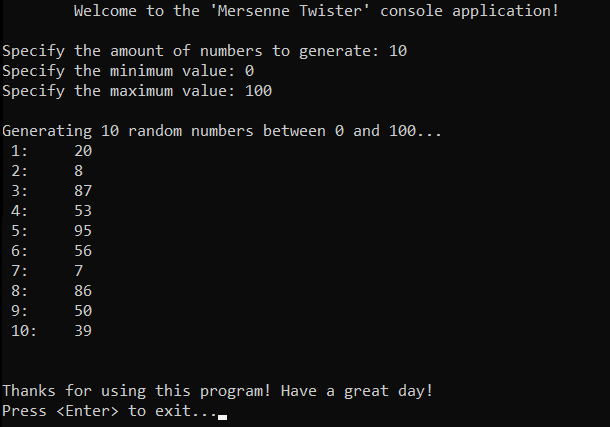
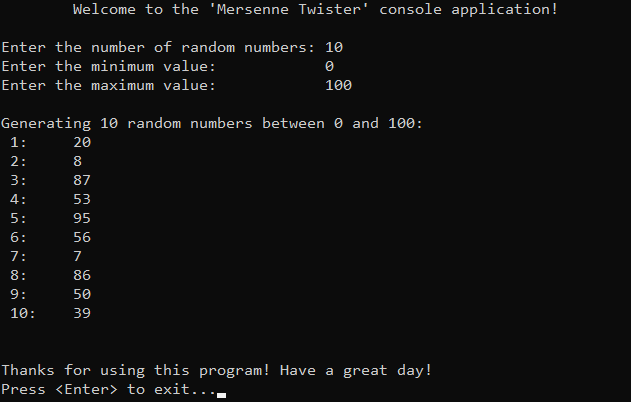
Maint 'MersenneTwister' + 'Xorshift32': typos, links, img (proper bits, LSB, MSB, ordering, evaluation, etc).

diff --git a/Algorithms/RNG/MersenneTwister/Source/Main.cpp b/Algorithms/RNG/MersenneTwister/Source/Main.cpp
@@ -12,23 +12,22 @@ int main() {
 	// Greet
 	std::cout << "\tWelcome to the 'Mersenne Twister' console application!\n\n";
 
-	// Prompt user for input
-	std::cout << "Specify the amount of numbers to generate: ";
-	int numbers = 0;
-	std::cin >> numbers;
-	std::cout << "Specify the minimum value: ";
+	// Prompt the user for input
+	std::cout << "Enter the number of random numbers: ";
+	int n = 0;
+	std::cin >> n;
+	std::cout << "Enter the minimum value:\t    ";
 	int minVal = 0;
 	std::cin >> minVal;
-	std::cout << "Specify the maximum value: ";
+	std::cout << "Enter the maximum value:\t    ";
 	int maxVal = 0;
 	std::cin >> maxVal;
 
 	// Generate random numbers within the user-defined range
-	MersenneTwister mt(1234);
-	std::cout << "\nGenerating " << numbers 
-		<< " random numbers between " << minVal << " and " << maxVal << "...\n";
-	for (int i = 0; i < numbers; i++) {
-		uint32_t randomNumber = minVal + (mt.generate() % (maxVal - minVal + 1));
+	MersenneTwister prng(1234);
+	std::cout << "\nGenerating " << n << " random numbers between " << minVal << " and " << maxVal << ":\n";
+	for (int i = 0; i < n; i++) {
+		uint32_t randomNumber = minVal + (prng.generate() % (maxVal - minVal + 1));
 		std::cout << " " << i + 1 << ":\t" << randomNumber << std::endl;
 	}
 	std::cout << std::endl;
@@ -36,6 +35,7 @@ int main() {
 	// Exit
 	std::cout << "\nThanks for using this program! Have a great day!\n";
 	std::cout << "Press <Enter> to exit...";
+	std::cin.ignore();
 	std::cin.get();
 	return 0;
 }

diff --git a/Algorithms/RNG/MersenneTwister/Source/MersenneTwister.cpp b/Algorithms/RNG/MersenneTwister/Source/MersenneTwister.cpp
@@ -9,11 +9,12 @@
 
 MersenneTwister::MersenneTwister(uint32_t seed) { initialize(seed); }
 
+// Initializes the state using linear recurrence method from the MT19937 algorithm
 void MersenneTwister::initialize(uint32_t seed) {
-    stateArr.resize(n);
-    stateArr[0] = seed;
+    state.resize(n);
+    state[0] = seed;
     for (int i = 1; i < n; i++) {
-        stateArr[i] = f * (stateArr[i - 1] ^ (stateArr[i - 1] >> 30)) + i;
+        state[i] = f * (state[i - 1] ^ (state[i - 1] >> 30)) + i;
     }   
 }
 
@@ -23,10 +24,10 @@ void MersenneTwister::twist() {
     const uint32_t upMask = ~lowMask;
 
     for (int i = 0; i < n; i++) {
-        uint32_t x = (stateArr[i] & upMask) + (stateArr[(i + 1) % n] & lowMask);
+        uint32_t x = (state[i] & upMask) + (state[(i + 1) % n] & lowMask);
         uint32_t xA = x >> 1;
         if (x % 2 != 0) { xA ^= a; } // If the lowest bit is 1
-        stateArr[i] = stateArr[(i + m) % n] ^ xA;
+        state[i] = state[(i + m) % n] ^ xA;
     }
     index = 0;
 }
@@ -35,7 +36,7 @@ void MersenneTwister::twist() {
 uint32_t MersenneTwister::generate() {
     if (index >= n) { twist(); }
 
-    uint32_t y = stateArr[index++];
+    uint32_t y = state[index++];
     y ^= (y >> u);
     y ^= (y << s) & b;
     y ^= (y << t) & c;

diff --git a/Algorithms/RNG/MersenneTwister/Include/MersenneTwister.h b/Algorithms/RNG/MersenneTwister/Include/MersenneTwister.h
@@ -26,7 +26,7 @@ private:
     static const uint32_t c = 0xEFC60000;     // Another mask used in the tempering process
     static const uint32_t f = 1812433253u;    // Multiplier used during the initialization of the state array
 
-    std::vector<uint32_t> stateArr;
+    std::vector<uint32_t> state;
     int index = n + 1;
 
     void initialize(uint32_t seed);

diff --git a/Algorithms/RNG/MersenneTwister/MersenneTwister.md b/Algorithms/RNG/MersenneTwister/MersenneTwister.md
@@ -25,7 +25,7 @@ The **Mersenne Twister** is a complex and highly efficient pseudorandom number g
 
 
 ## Introduction
-The Mersenne Twister generates a sequence of pseudorandom numbers by maintaining an internal state array. This array holds intermediate values used to produce random numbers. The algorithm periodically updates the state array through a process called "twisting," which mixes bits from consecutive elements. The final numbers are produced through "tempering," which applies bit shifts and masks to ensure the numbers are well-distributed. Both twisting and tempering involve specific constants, carefully chosen from mathematical research, to control how the bits are manipulated and ensure the algorithm's long period and high-quality randomness.
+The Mersenne Twister generates a sequence of pseudorandom numbers by maintaining an internal state array. This array holds intermediate values used to produce random numbers. The algorithm periodically updates the state array through a process called «twisting», which mixes bits from consecutive elements. The final numbers are produced through «tempering», which applies bit shifts and masks to ensure the numbers are well-distributed. Both twisting and tempering involve specific constants, carefully chosen from mathematical research, to control how the bits are manipulated and ensure the algorithm's long period and high-quality randomness.
 
 
 ## Important Details
@@ -76,7 +76,7 @@ To prioritize simplicity and emphasize algorithm itself, several design decision
 
 
 ## Complete Implementation
-PRNG is implemented within the class `MersenneTwister`, which is declared in `MersenneTwister.h` header file and defined in `MersenneTwister.cpp` source file. This approach is adopted to ensure encapsulation, modularity and compilation efficiency. Examination of generated values is conducted within the `main()` function located in the `Main.cpp` file. Below you can find declaration of the class.
+PRNG is implemented within the class `MersenneTwister`, which is declared in [MersenneTwister.h](https://github.com/vezzolter/DSA/tree/main/Algorithms/RNG/MersenneTwister/Include/MersenneTwister.h) header file and defined in [MersenneTwister.cpp](https://github.com/vezzolter/DSA/tree/main/Algorithms/RNG/MersenneTwister/Source/MersenneTwister.cpp) source file. This approach is adopted to ensure encapsulation, modularity and compilation efficiency. Examination of generated values is conducted within the `main()` function located in the [Main.cpp](https://github.com/vezzolter/DSA/tree/main/Algorithms/RNG/MersenneTwister/Source/Main.cpp) file. Below you can find declaration of the class.
 
 ```cpp
 class MersenneTwister {
@@ -93,7 +93,7 @@ private:
     static const uint32_t c = 0xEFC60000;     // Another mask used in the tempering process
     static const uint32_t f = 1812433253u;    // Multiplier used during the initialization of the state array
 
-    std::vector<uint32_t> stateArr;
+    std::vector<uint32_t> state;
     int index = n + 1;
 
     void initialize(uint32_t seed);
@@ -111,15 +111,14 @@ public:
 ```cpp
   MersenneTwister::MersenneTwister(uint32_t seed) { initialize(seed); }
 ```
-2. Within this `initialize()` function do following actions: resize the state array to number of elements, initialize it by setting the first element to the provided seed, and fill the rest using a recurrence relation.
+2. Within this `initialize()` function do following actions: resize the state array to number of elements, initialize it by setting the first element to the provided seed, and fill the rest using linear recurrence method from the MT19937 algorithm.
 ```cpp
   void MersenneTwister::initialize(uint32_t seed) {
-      stateArr.resize(n);
-      stateArr[0] = seed;
+      state.resize(n);
+      state[0] = seed;
       for (int i = 1; i < n; i++) {
-        stateArr[i] = f * (stateArr[i - 1] ^ (stateArr[i - 1] >> 30)) + i;
-      }
-          
+        state[i] = f * (state[i - 1] ^ (state[i - 1] >> 30)) + i;
+      }    
   }
 ```
 3. When PRNG is set up, the user can call function `generate()` to X. In this function, the first thing to check is whether the index has exceeded the size of the state array (n = 624). If this condition is met, the state array has been fully used, and we need to call the `twist()` function to generate new values. Twisting allows us to refill the state array with fresh random numbers. For now, let’s assume everything is fine, and we don't need to twist. Later, I’ll explain exactly how twisting works. After checking this condition, the function proceeds to extract the next random number from the state array.
@@ -129,7 +128,7 @@ public:
 ```
 4. Now that we know that state array contains fresh random numbers, the next step is to retrieve the current value from the state array at the position index. The index++ ensures that the next time `generate()` is called, we will move to the next element in the array. This gives us the raw number y to work with.
 ```cpp
-  uint32_t y = stateArr[index++];
+  uint32_t y = state[index++];
 ```
 5. Once the raw number `y` is extracted from the state array, a tempering process is applied to modify the bits in a specific way that ensures better distribution. The initial right shift by $11$ bits brings high-order bits into the lower positions, redistributing variability and reducing the influence of predictable lower bits. The left shift by $7$ bits, combined with a mask, adjusts the high-order bits, adding complexity to the most significant part of the number. The second left shift by $15$ bits targets the middle bits, with another mask ensuring that this critical range is randomized as well. Finally, the right shift by $18$ bits tweaks the higher bits once more, ensuring that they are fully influenced by the entire process.
 ```cpp
@@ -148,10 +147,10 @@ public:
       const uint32_t lowMask = (1u << r) - 1;  // Lowest r bits
       const uint32_t upMask = ~lowMask;        // Upper w-r bits
 ```
-8. Iterate over all elements in the state array where the main part of twist operation happens. Use the masks to combine the upper bits of the current element `stateArr[i]` with the lower bits of the next element `stateArr[(i + 1) % n]`. This operation ensures that no single element's bits are kept in isolation, increasing the randomness of the process.
+8. Iterate over all elements in the state array where the main part of twist operation happens. Use the masks to combine the upper bits of the current element `state[i]` with the lower bits of the next element `state[(i + 1) % n]`. This operation ensures that no single element's bits are kept in isolation, increasing the randomness of the process.
 ```cpp
   for (int i = 0; i < n; i++) {
-      uint32_t x = (stateArr[i] & upMask) + (stateArr[(i + 1) % n] & lowMask);
+      uint32_t x = (state[i] & upMask) + (state[(i + 1) % n] & lowMask);
 ```
 9. Perform a right shift on the combined value x, discarding the least significant bit (LSB). This reduces the impact of lower bits that might carry less useful randomness.
 ```cpp
@@ -161,9 +160,9 @@ public:
 ```cpp
   if (x % 2 != 0) { xA ^= a; } // If the lowest bit is 1
 ```
-11.  Update the current element `stateArr[i]` by XORing the result `xA` with the element m = 397 positions ahead in the state array. This ensures that each element in the state array is influenced not only by its neighbors but also by elements further down the array, enhancing randomness.
+11.  Update the current element `state[i]` by XORing the result `xA` with the element m = 397 positions ahead in the state array. This ensures that each element in the state array is influenced not only by its neighbors but also by elements further down the array, enhancing randomness.
 ```cpp
-  stateArr[i] = stateArr[(i + m) % n] ^ xA;
+  state[i] = state[(i + m) % n] ^ xA;
 ```
 12.  Finally, once all elements in the state array have been processed, reset the `index` to `0` so that the next number generation can start from the beginning of the state array.
 ```cpp
@@ -171,8 +170,8 @@ public:
 ```
 13. To make the generated value more practical and human-readable, a user-defined range can be applied. The range is defined by `maxVal` and `minVal`, which translates to `[minVal, maxVal)` and adding $1$ ensures inclusivity of the maximum value, resulting in the range `[minVal, maxVal]`. The modulo operator is then used to confine the PRNG output within `[0, range]`. Adding `minVal` shifts the range to `[minVal, maxVal]`, ensuring the final value is within the user’s desired range, therefore can be tested easily.
 ```cpp
-	for (int i = 0; i < numbers; i++) {
-		uint32_t randomNumber = minVal + (mt.generate() % (maxVal - minVal + 1));
+	for (int i = 0; i < n; i++) {
+		uint32_t randomNumber = minVal + (prng.generate() % (maxVal - minVal + 1));
 		std::cout << " " << i + 1 << ":\t" << randomNumber << std::endl;
 	}
 ```
@@ -195,14 +194,14 @@ Understanding some of the most well-known use cases of an algorithm is crucial f
 
 
 ## Some Practical Problems
-- Refer to RNG's practical problems
+- Refer to [RNG's Practical Problems](../RNG.md#some-practical-problems) for examples of problems that explore randomness as a fundamental concept.
 
 
 
 # &#x1F559; Origins
 The Mersenne Twister was introduced in **1997** by Japanese mathematicians **Makoto Matsumoto (松本 眞)** and **Takuji Nishimura (西村 拓士)** as a solution to the limitations of existing PRNGs. At the time, many of them either suffered from short periods, poor statistical properties, or slow performance, making them unsuitable for simulations and other applications that required large amounts of high-quality random numbers.
 
-Their breakthrough came with the idea of improving the Generalized Feedback Shift Register (GFSR) by "twisting" the recurrence relation in a way that better preserved randomness. They incorporated a matrix linear recurrence over a finite binary field, which led to the creation of a twisted GFSR (TGFSR). This method involved manipulating the sequence of numbers using a recurrence relation and introducing a tempering matrix to improve the uniformity of the generated numbers, ensuring better distribution and randomness.
+Their breakthrough came with the idea of improving the Generalized Feedback Shift Register (GFSR) by «twisting» the recurrence relation in a way that better preserved randomness. They incorporated a matrix linear recurrence over a finite binary field, which led to the creation of a twisted GFSR (TGFSR). This method involved manipulating the sequence of numbers using a recurrence relation and introducing a tempering matrix to improve the uniformity of the generated numbers, ensuring better distribution and randomness.
 
 Mersenne Twister quickly became the standard in many fields, offering an ideal balance of speed, long period, and strong statistical properties. Its widespread adoption in software platforms like Python, R, and C++, as well as tools like SPSS, highlights its reliability and versatility in generating high-quality random numbers across diverse applications.
 
@@ -220,8 +219,8 @@ For contact details and additional information, please refer to the [root direct
 
 # &#128591; Credits
 &#127760; **Web-Resources:**  
-- [Mersenne Twister](https://en.wikipedia.org/wiki/Mersenne_Twister)
-- [Mersenne twister: a 623-dimensionally equidistributed uniform pseudo-random number generator](https://dl.acm.org/doi/pdf/10.1145/272991.272995) (Research)
+- [Mersenne Twister](https://en.wikipedia.org/wiki/Mersenne_Twister) (Wikipedia)
+- [Mersenne twister: a 623-dimensionally equidistributed uniform pseudo-random number generator](https://dl.acm.org/doi/pdf/10.1145/272991.272995) (Research Paper)
 
 
 

diff --git a/Algorithms/RNG/Xorshift32/Xorshift32.md b/Algorithms/RNG/Xorshift32/Xorshift32.md
@@ -126,10 +126,6 @@ Understanding some of the most well-known use cases of an algorithm is crucial f
 ## Common Use Cases
 - **Basic Randomness Generation** — PRNG is used in applications where fast and lightweight randomness is needed without high statistical quality. Xorshift32’s reliance on simple bitwise operations makes it ideal for scenarios requiring quick, non-secure random values with minimal computational overhead.
 
-- **Procedural Content Generation** — PRNG is used in gaming, graphics, and simulation environments to create randomized worlds, textures, or assets. Xorshift32’s efficiency allows it to generate vast amounts of pseudo-random data quickly, making it a suitable choice when performance is a priority over statistical quality.
-
-- **Basic Simulations and Testing** — PRNG is used in Monte Carlo simulations, randomized testing, and algorithm benchmarking where deterministic yet fast randomness is sufficient. Xorshift32’s simplicity ensures that it provides repeatable sequences without introducing unnecessary computational overhead.
-
 
 ## Some Practical Problems
 - Refer to [RNG's Practical Problems](../RNG.md#some-practical-problems) for examples of problems that explore randomness as a fundamental concept.
